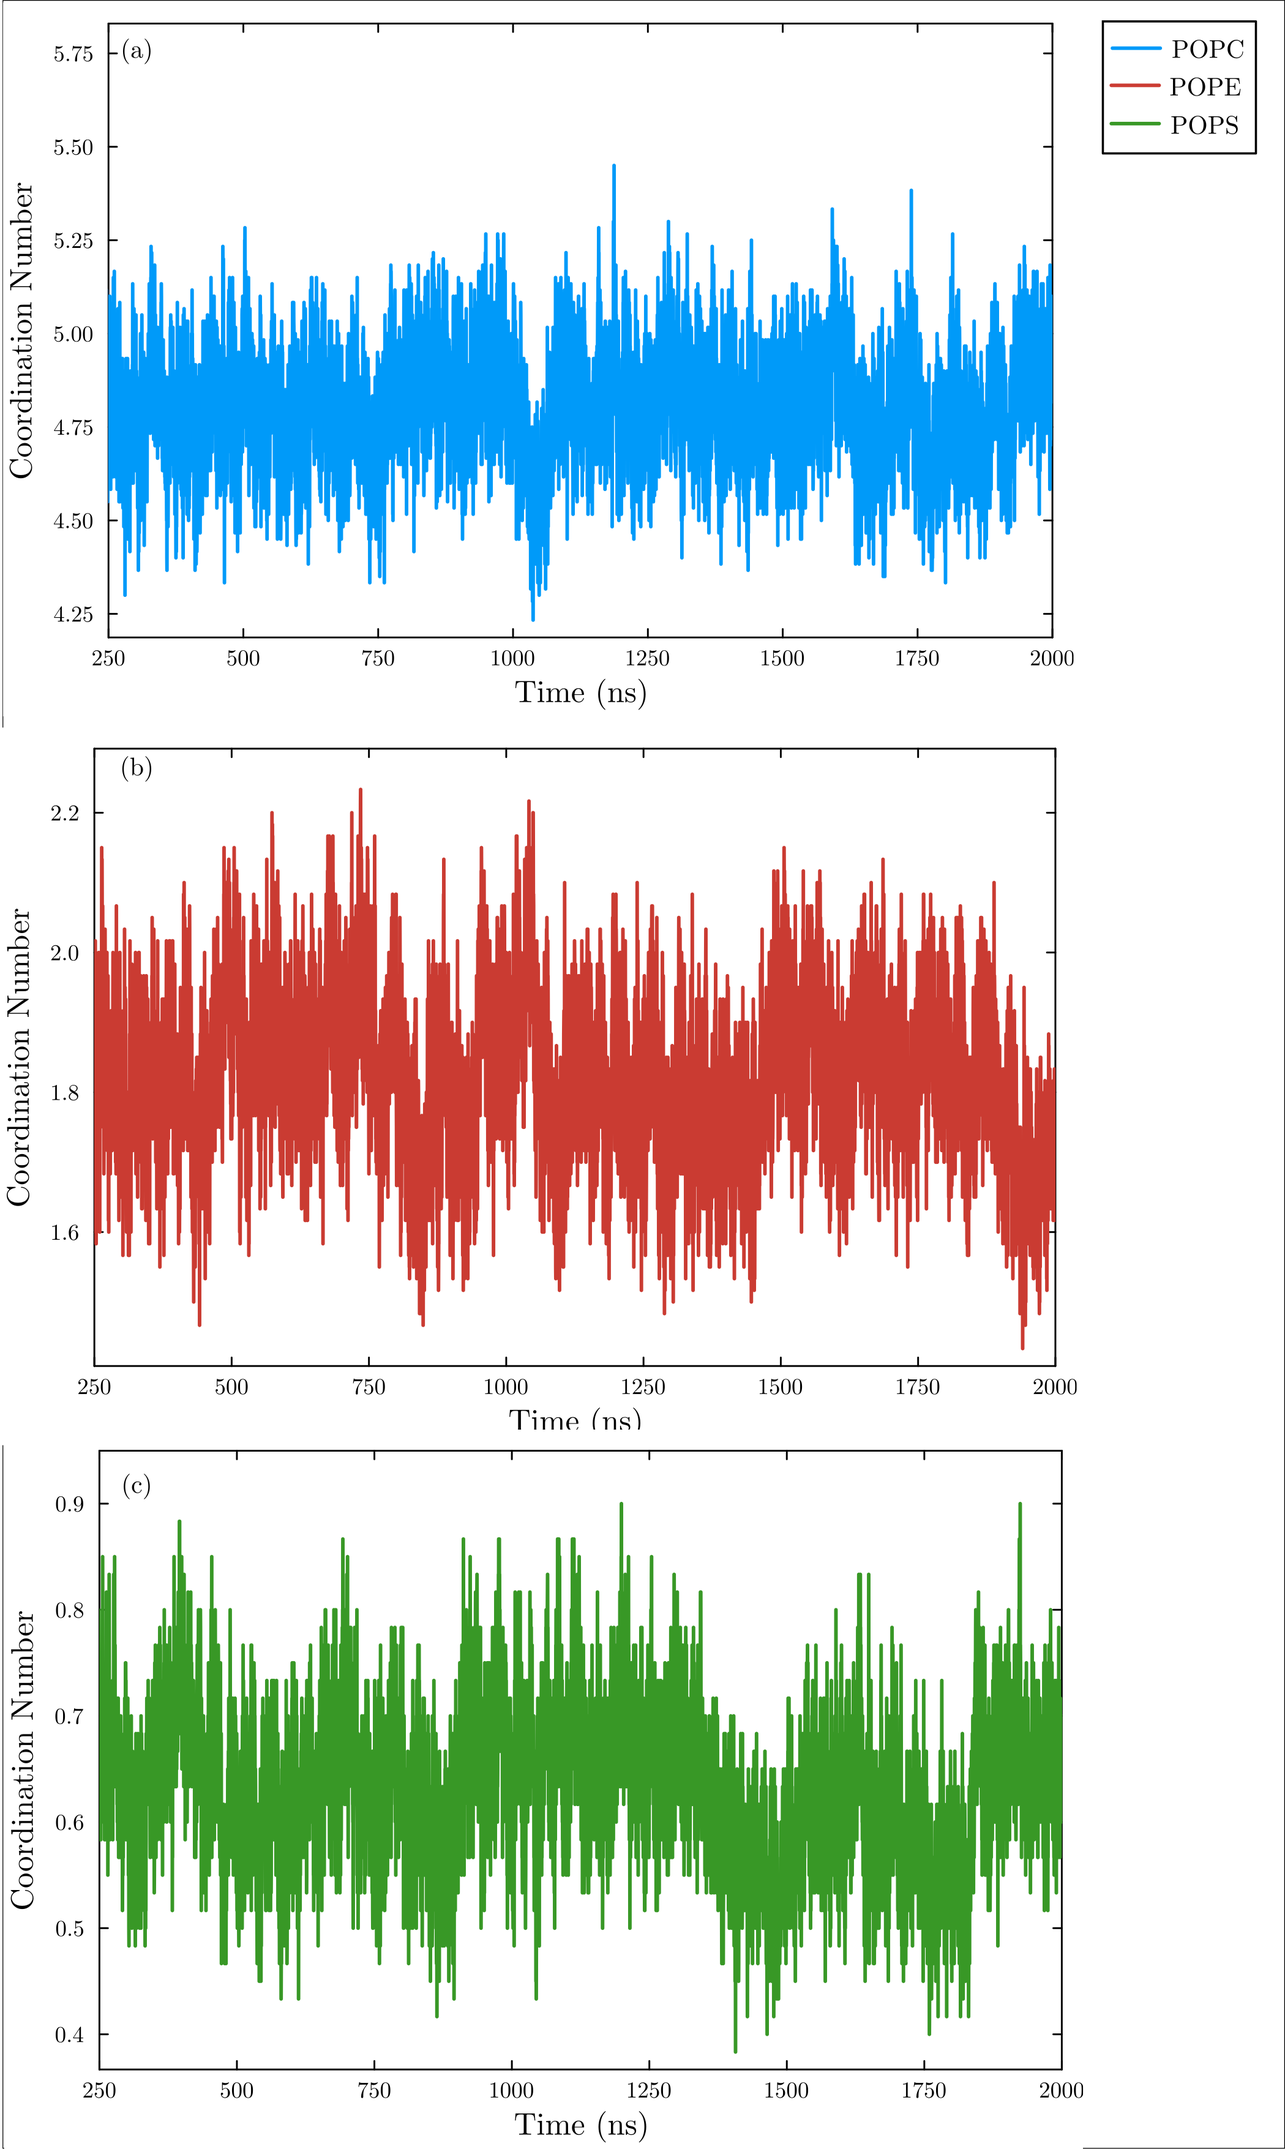
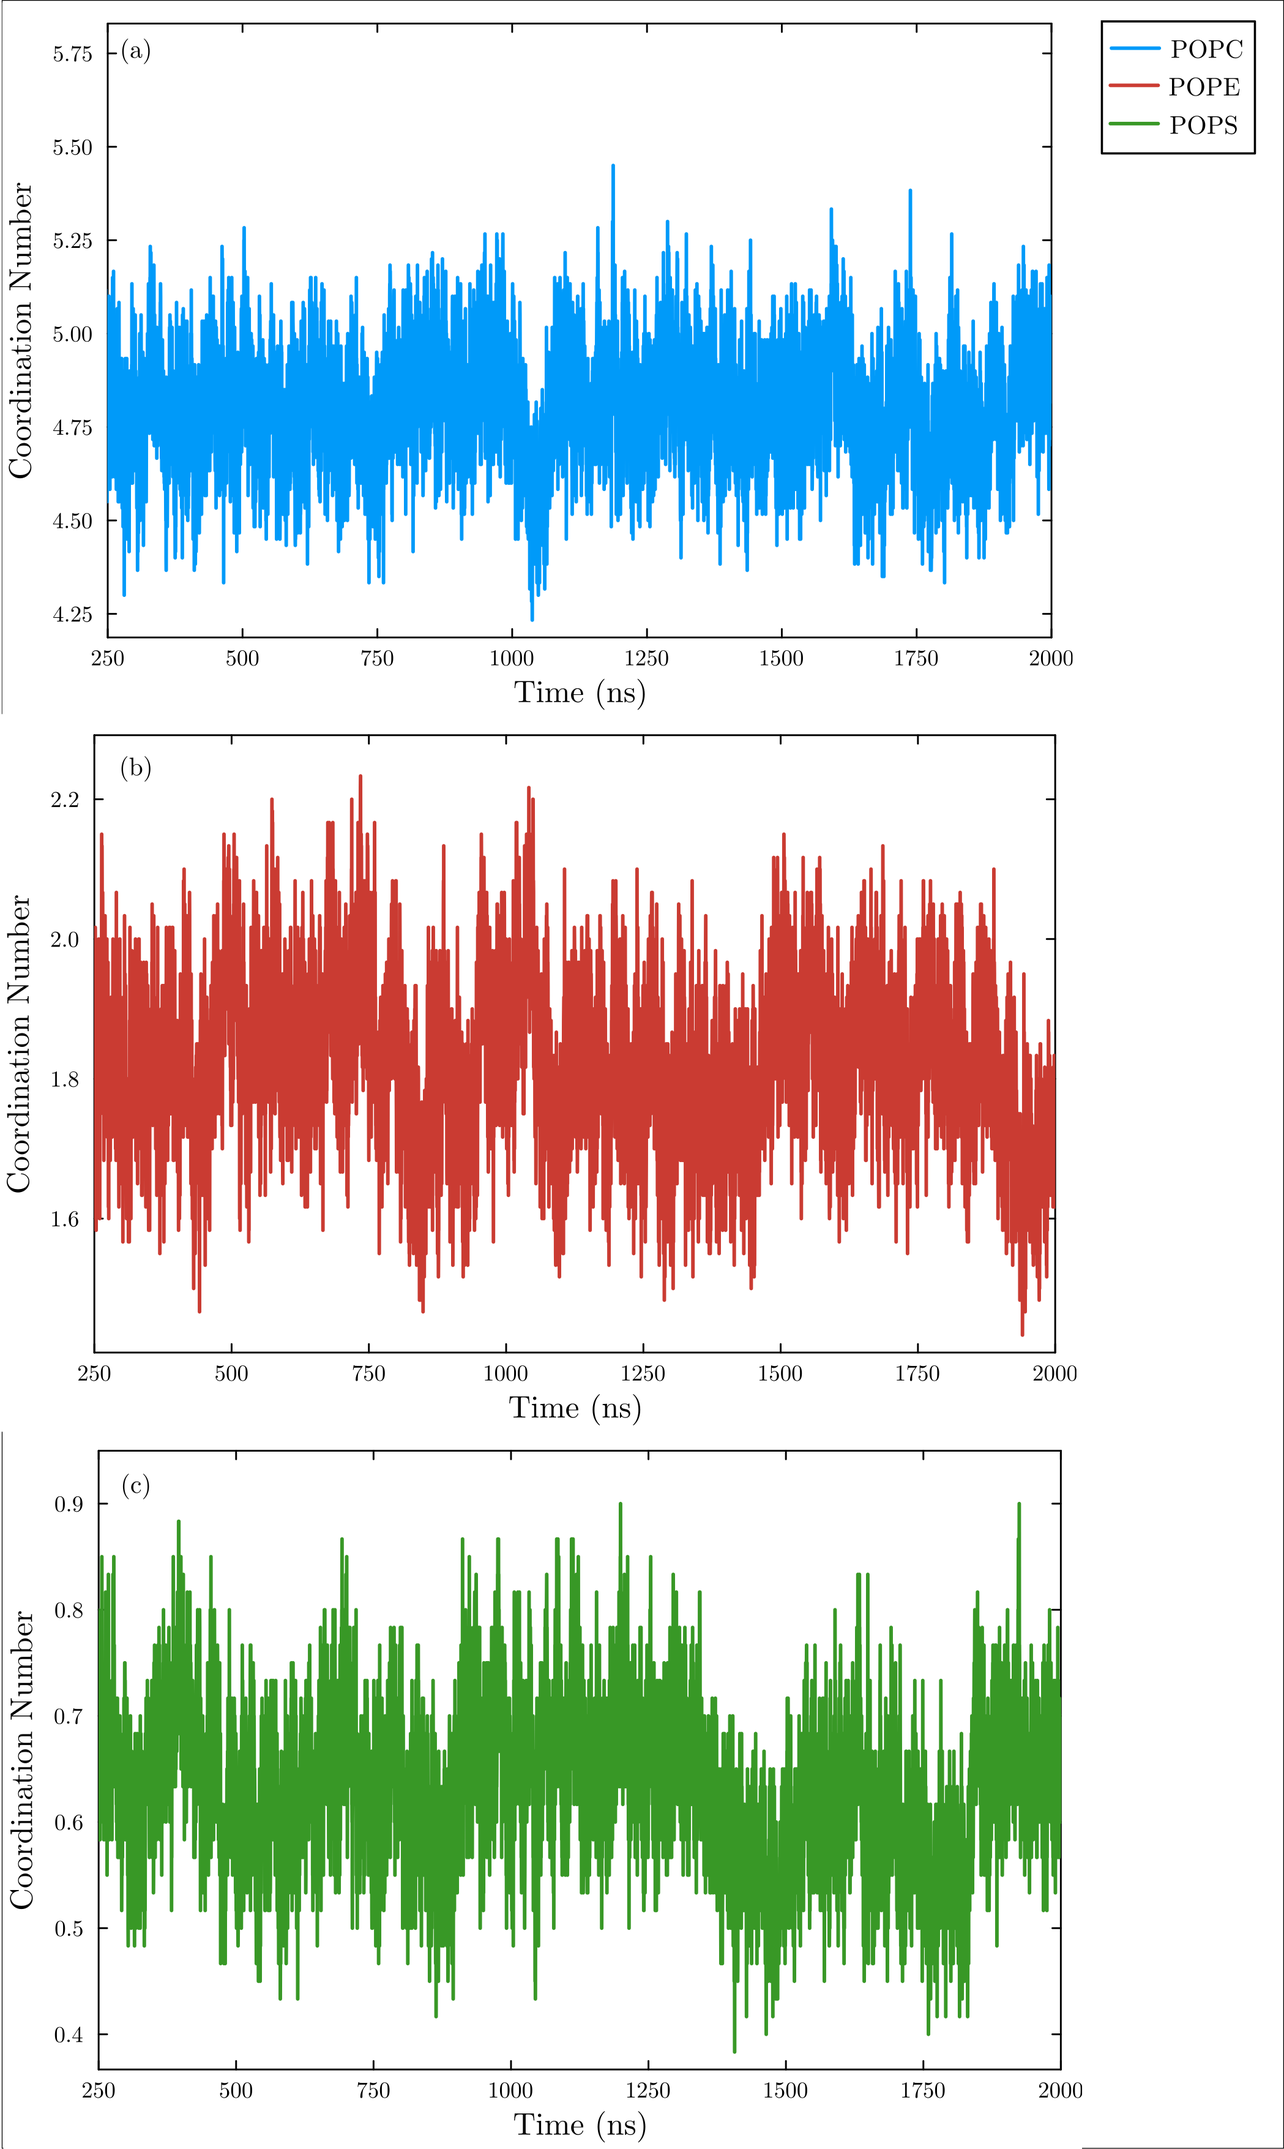
build based on 9e6a72e

diff --git a/dev/index.html b/dev/index.html
@@ -12,4 +12,4 @@ Pkg.add([
     &quot;Plots&quot;
 ])</code></pre><div class="admonition is-warning" id="Compatibility-d3b9f1010ac52a7d"><header class="admonition-header">Compatibility<a class="admonition-anchor" href="#Compatibility-d3b9f1010ac52a7d" title="Permalink"></a></header><div class="admonition-body"><p>Ensure that you are using <strong>Julia 1.11.2</strong> for compatibility with the packages and scipts in the repository.</p></div></div><h3 id="Funding"><a class="docs-heading-anchor" href="#Funding">Funding</a><a id="Funding-1"></a><a class="docs-heading-anchor-permalink" href="#Funding" title="Permalink"></a></h3><p>The authors acknowledge the financial support of Fapesp (2018/24293-0, 2023/14353-4). Research developed with the help of Coaraci Supercomputer (2019/17874-0).</p><h2 id="References"><a class="docs-heading-anchor" href="#References">References</a><a id="References-1"></a><a class="docs-heading-anchor-permalink" href="#References" title="Permalink"></a></h2><p><a href="https://doi.org/10.1016/j.molliq.2021.117945"><strong>[1]</strong> L. Martínez, <strong>ComplexMixtures.jl: Investigating the structure solutions of complex-shaped molecules from a  solvent-shell perspective</strong>. <em>J. Mol. Liq</em>. 347, 117945, 2022.</a></p><p><a href="https://pubs.acs.org/doi/abs/10.1021/acs.jctc.7b00599"><strong>[2]</strong> L. Martínez, S. Shimizu, <strong>Molecular interpretation of preferential interactions in protein solvation: a solvent-shell perspective by means of minimum distribution functions</strong>. <em>J. Chem. Theor. Comp</em>. 13, 6358-6372, 2017.</a></p><h2 id="Additional-Resources"><a class="docs-heading-anchor" href="#Additional-Resources">Additional Resources</a><a id="Additional-Resources-1"></a><a class="docs-heading-anchor-permalink" href="#Additional-Resources" title="Permalink"></a></h2><p>For additional resources and publications related to the scope of this paper, please visit the <a href="http://m3g.iqm.unicamp.br"><strong>M3G Website</strong></a>.</p><a href="http://m3g.iqm.unicamp.br">
     <img align="left" src="assets/m3g.svg" width="60" style="margin-right: 10px;">
-</a><p><em>This work was carried out by the <strong>M3G Group</strong> at Unicamp in collaboration with the <strong>Biomolecular Simulations Group</strong> at the Institut Pasteur de Montevideo.</em></p></article><nav class="docs-footer"><a class="docs-footer-nextpage" href="figures/">Supplementary Figures »</a><div class="flexbox-break"></div><p class="footer-message">Powered by <a href="https://github.com/JuliaDocs/Documenter.jl">Documenter.jl</a> and the <a href="https://julialang.org/">Julia Programming Language</a>.</p></nav></div><div class="modal" id="documenter-settings"><div class="modal-background"></div><div class="modal-card"><header class="modal-card-head"><p class="modal-card-title">Settings</p><button class="delete"></button></header><section class="modal-card-body"><p><label class="label">Theme</label><div class="select"><select id="documenter-themepicker"><option value="auto">Automatic (OS)</option><option value="documenter-light">documenter-light</option><option value="documenter-dark">documenter-dark</option><option value="catppuccin-latte">catppuccin-latte</option><option value="catppuccin-frappe">catppuccin-frappe</option><option value="catppuccin-macchiato">catppuccin-macchiato</option><option value="catppuccin-mocha">catppuccin-mocha</option></select></div></p><hr/><p>This document was generated with <a href="https://github.com/JuliaDocs/Documenter.jl">Documenter.jl</a> version 1.16.1 on <span class="colophon-date" title="Monday 5 January 2026 19:48">Monday 5 January 2026</span>. Using Julia version 1.12.3.</p></section><footer class="modal-card-foot"></footer></div></div></div></body></html>
+</a><p><em>This work was carried out by the <strong>M3G Group</strong> at Unicamp in collaboration with the <strong>Biomolecular Simulations Group</strong> at the Institut Pasteur de Montevideo.</em></p></article><nav class="docs-footer"><a class="docs-footer-nextpage" href="figures/">Supplementary Figures »</a><div class="flexbox-break"></div><p class="footer-message">Powered by <a href="https://github.com/JuliaDocs/Documenter.jl">Documenter.jl</a> and the <a href="https://julialang.org/">Julia Programming Language</a>.</p></nav></div><div class="modal" id="documenter-settings"><div class="modal-background"></div><div class="modal-card"><header class="modal-card-head"><p class="modal-card-title">Settings</p><button class="delete"></button></header><section class="modal-card-body"><p><label class="label">Theme</label><div class="select"><select id="documenter-themepicker"><option value="auto">Automatic (OS)</option><option value="documenter-light">documenter-light</option><option value="documenter-dark">documenter-dark</option><option value="catppuccin-latte">catppuccin-latte</option><option value="catppuccin-frappe">catppuccin-frappe</option><option value="catppuccin-macchiato">catppuccin-macchiato</option><option value="catppuccin-mocha">catppuccin-mocha</option></select></div></p><hr/><p>This document was generated with <a href="https://github.com/JuliaDocs/Documenter.jl">Documenter.jl</a> version 1.16.1 on <span class="colophon-date" title="Monday 5 January 2026 20:01">Monday 5 January 2026</span>. Using Julia version 1.12.3.</p></section><footer class="modal-card-foot"></footer></div></div></div></body></html>

diff --git a/dev/figures/index.html b/dev/figures/index.html
@@ -107,4 +107,4 @@
 </figure><figure style="text-align: center;">
   <img src="../figures/figureS36.png" style="width:100%">
   <figcaption>Figure S36. Helical wheels of chains O and P depicting POPS contributions within 5 Å, with arrows indicating hydrophobic moment vectors relevant for membrane embedding.</figcaption>
-</figure><h2 id="Aditional-References"><a class="docs-heading-anchor" href="#Aditional-References">Aditional References</a><a id="Aditional-References-1"></a><a class="docs-heading-anchor-permalink" href="#Aditional-References" title="Permalink"></a></h2><section class="footnotes is-size-7"><ul><li class="footnote" id="footnote-1"><a class="tag is-link" href="#citeref-1">1</a>Khemaissa, S., Sagan, S. &amp; Walrant, A. Tryptophan, an Amino-Acid Endowed with Unique Properties and Its Many Roles in Membrane Proteins. Crystals 11, 1032 (2021).</li><li class="footnote" id="footnote-2"><a class="tag is-link" href="#citeref-2">2</a>Amino-Acid Solvation Structure in Transmembrane Helices from Molecular Dynamics Simulations. Biophysical Journal 91, 4450–4463 (2006).</li><li class="footnote" id="footnote-3"><a class="tag is-link" href="#citeref-3">3</a>Zhang, W. et al. Visualization of membrane protein domains by cryo-electron microscopy of dengue virus. Nature Structural &amp; Molecular Biology 10, 907–912 (2003).</li></ul></section></article><nav class="docs-footer"><a class="docs-footer-prevpage" href="../">« Home</a><a class="docs-footer-nextpage" href="../scripts/">Scripts »</a><div class="flexbox-break"></div><p class="footer-message">Powered by <a href="https://github.com/JuliaDocs/Documenter.jl">Documenter.jl</a> and the <a href="https://julialang.org/">Julia Programming Language</a>.</p></nav></div><div class="modal" id="documenter-settings"><div class="modal-background"></div><div class="modal-card"><header class="modal-card-head"><p class="modal-card-title">Settings</p><button class="delete"></button></header><section class="modal-card-body"><p><label class="label">Theme</label><div class="select"><select id="documenter-themepicker"><option value="auto">Automatic (OS)</option><option value="documenter-light">documenter-light</option><option value="documenter-dark">documenter-dark</option><option value="catppuccin-latte">catppuccin-latte</option><option value="catppuccin-frappe">catppuccin-frappe</option><option value="catppuccin-macchiato">catppuccin-macchiato</option><option value="catppuccin-mocha">catppuccin-mocha</option></select></div></p><hr/><p>This document was generated with <a href="https://github.com/JuliaDocs/Documenter.jl">Documenter.jl</a> version 1.16.1 on <span class="colophon-date" title="Monday 5 January 2026 19:48">Monday 5 January 2026</span>. Using Julia version 1.12.3.</p></section><footer class="modal-card-foot"></footer></div></div></div></body></html>
+</figure><h2 id="Aditional-References"><a class="docs-heading-anchor" href="#Aditional-References">Aditional References</a><a id="Aditional-References-1"></a><a class="docs-heading-anchor-permalink" href="#Aditional-References" title="Permalink"></a></h2><section class="footnotes is-size-7"><ul><li class="footnote" id="footnote-1"><a class="tag is-link" href="#citeref-1">1</a>Khemaissa, S., Sagan, S. &amp; Walrant, A. Tryptophan, an Amino-Acid Endowed with Unique Properties and Its Many Roles in Membrane Proteins. Crystals 11, 1032 (2021).</li><li class="footnote" id="footnote-2"><a class="tag is-link" href="#citeref-2">2</a>Amino-Acid Solvation Structure in Transmembrane Helices from Molecular Dynamics Simulations. Biophysical Journal 91, 4450–4463 (2006).</li><li class="footnote" id="footnote-3"><a class="tag is-link" href="#citeref-3">3</a>Zhang, W. et al. Visualization of membrane protein domains by cryo-electron microscopy of dengue virus. Nature Structural &amp; Molecular Biology 10, 907–912 (2003).</li></ul></section></article><nav class="docs-footer"><a class="docs-footer-prevpage" href="../">« Home</a><a class="docs-footer-nextpage" href="../scripts/">Scripts »</a><div class="flexbox-break"></div><p class="footer-message">Powered by <a href="https://github.com/JuliaDocs/Documenter.jl">Documenter.jl</a> and the <a href="https://julialang.org/">Julia Programming Language</a>.</p></nav></div><div class="modal" id="documenter-settings"><div class="modal-background"></div><div class="modal-card"><header class="modal-card-head"><p class="modal-card-title">Settings</p><button class="delete"></button></header><section class="modal-card-body"><p><label class="label">Theme</label><div class="select"><select id="documenter-themepicker"><option value="auto">Automatic (OS)</option><option value="documenter-light">documenter-light</option><option value="documenter-dark">documenter-dark</option><option value="catppuccin-latte">catppuccin-latte</option><option value="catppuccin-frappe">catppuccin-frappe</option><option value="catppuccin-macchiato">catppuccin-macchiato</option><option value="catppuccin-mocha">catppuccin-mocha</option></select></div></p><hr/><p>This document was generated with <a href="https://github.com/JuliaDocs/Documenter.jl">Documenter.jl</a> version 1.16.1 on <span class="colophon-date" title="Monday 5 January 2026 20:01">Monday 5 January 2026</span>. Using Julia version 1.12.3.</p></section><footer class="modal-card-foot"></footer></div></div></div></body></html>

diff --git a/dev/additional/index.html b/dev/additional/index.html
@@ -23,4 +23,4 @@
 </figure><figure style="text-align: center;">
   <img src="../figures/figureS44.png" style="width:100%">
   <figcaption>Figure S44. Fluctuations of the coordination number of outer POPS along the simulation and block analysis for time‑correlated data, showing the convergence of the worst block value to the global mean, the dependence of the standard error on the block size, the autocorrelation function with integrated correlation time, and the effective number of independent samples, calculated with the block‑averages method of MolSimToolkit.jl.</figcaption>
-</figure></article><nav class="docs-footer"><a class="docs-footer-prevpage" href="../scripts/">« Scripts</a><div class="flexbox-break"></div><p class="footer-message">Powered by <a href="https://github.com/JuliaDocs/Documenter.jl">Documenter.jl</a> and the <a href="https://julialang.org/">Julia Programming Language</a>.</p></nav></div><div class="modal" id="documenter-settings"><div class="modal-background"></div><div class="modal-card"><header class="modal-card-head"><p class="modal-card-title">Settings</p><button class="delete"></button></header><section class="modal-card-body"><p><label class="label">Theme</label><div class="select"><select id="documenter-themepicker"><option value="auto">Automatic (OS)</option><option value="documenter-light">documenter-light</option><option value="documenter-dark">documenter-dark</option><option value="catppuccin-latte">catppuccin-latte</option><option value="catppuccin-frappe">catppuccin-frappe</option><option value="catppuccin-macchiato">catppuccin-macchiato</option><option value="catppuccin-mocha">catppuccin-mocha</option></select></div></p><hr/><p>This document was generated with <a href="https://github.com/JuliaDocs/Documenter.jl">Documenter.jl</a> version 1.16.1 on <span class="colophon-date" title="Monday 5 January 2026 19:48">Monday 5 January 2026</span>. Using Julia version 1.12.3.</p></section><footer class="modal-card-foot"></footer></div></div></div></body></html>
+</figure></article><nav class="docs-footer"><a class="docs-footer-prevpage" href="../scripts/">« Scripts</a><div class="flexbox-break"></div><p class="footer-message">Powered by <a href="https://github.com/JuliaDocs/Documenter.jl">Documenter.jl</a> and the <a href="https://julialang.org/">Julia Programming Language</a>.</p></nav></div><div class="modal" id="documenter-settings"><div class="modal-background"></div><div class="modal-card"><header class="modal-card-head"><p class="modal-card-title">Settings</p><button class="delete"></button></header><section class="modal-card-body"><p><label class="label">Theme</label><div class="select"><select id="documenter-themepicker"><option value="auto">Automatic (OS)</option><option value="documenter-light">documenter-light</option><option value="documenter-dark">documenter-dark</option><option value="catppuccin-latte">catppuccin-latte</option><option value="catppuccin-frappe">catppuccin-frappe</option><option value="catppuccin-macchiato">catppuccin-macchiato</option><option value="catppuccin-mocha">catppuccin-mocha</option></select></div></p><hr/><p>This document was generated with <a href="https://github.com/JuliaDocs/Documenter.jl">Documenter.jl</a> version 1.16.1 on <span class="colophon-date" title="Monday 5 January 2026 20:01">Monday 5 January 2026</span>. Using Julia version 1.12.3.</p></section><footer class="modal-card-foot"></footer></div></div></div></body></html>

diff --git a/dev/scripts/index.html b/dev/scripts/index.html
@@ -99,4 +99,4 @@ end
 rc = rc/60
 
 # Step 6: Save the contributions per residue as a JSON file
-save(&quot;./rc_k_lipidbilayer&quot;, rc)</code></pre></article><nav class="docs-footer"><a class="docs-footer-prevpage" href="../figures/">« Supplementary Figures</a><a class="docs-footer-nextpage" href="../additional/">Additional Information »</a><div class="flexbox-break"></div><p class="footer-message">Powered by <a href="https://github.com/JuliaDocs/Documenter.jl">Documenter.jl</a> and the <a href="https://julialang.org/">Julia Programming Language</a>.</p></nav></div><div class="modal" id="documenter-settings"><div class="modal-background"></div><div class="modal-card"><header class="modal-card-head"><p class="modal-card-title">Settings</p><button class="delete"></button></header><section class="modal-card-body"><p><label class="label">Theme</label><div class="select"><select id="documenter-themepicker"><option value="auto">Automatic (OS)</option><option value="documenter-light">documenter-light</option><option value="documenter-dark">documenter-dark</option><option value="catppuccin-latte">catppuccin-latte</option><option value="catppuccin-frappe">catppuccin-frappe</option><option value="catppuccin-macchiato">catppuccin-macchiato</option><option value="catppuccin-mocha">catppuccin-mocha</option></select></div></p><hr/><p>This document was generated with <a href="https://github.com/JuliaDocs/Documenter.jl">Documenter.jl</a> version 1.16.1 on <span class="colophon-date" title="Monday 5 January 2026 19:48">Monday 5 January 2026</span>. Using Julia version 1.12.3.</p></section><footer class="modal-card-foot"></footer></div></div></div></body></html>
+save(&quot;./rc_k_lipidbilayer&quot;, rc)</code></pre></article><nav class="docs-footer"><a class="docs-footer-prevpage" href="../figures/">« Supplementary Figures</a><a class="docs-footer-nextpage" href="../additional/">Additional Information »</a><div class="flexbox-break"></div><p class="footer-message">Powered by <a href="https://github.com/JuliaDocs/Documenter.jl">Documenter.jl</a> and the <a href="https://julialang.org/">Julia Programming Language</a>.</p></nav></div><div class="modal" id="documenter-settings"><div class="modal-background"></div><div class="modal-card"><header class="modal-card-head"><p class="modal-card-title">Settings</p><button class="delete"></button></header><section class="modal-card-body"><p><label class="label">Theme</label><div class="select"><select id="documenter-themepicker"><option value="auto">Automatic (OS)</option><option value="documenter-light">documenter-light</option><option value="documenter-dark">documenter-dark</option><option value="catppuccin-latte">catppuccin-latte</option><option value="catppuccin-frappe">catppuccin-frappe</option><option value="catppuccin-macchiato">catppuccin-macchiato</option><option value="catppuccin-mocha">catppuccin-mocha</option></select></div></p><hr/><p>This document was generated with <a href="https://github.com/JuliaDocs/Documenter.jl">Documenter.jl</a> version 1.16.1 on <span class="colophon-date" title="Monday 5 January 2026 20:01">Monday 5 January 2026</span>. Using Julia version 1.12.3.</p></section><footer class="modal-card-foot"></footer></div></div></div></body></html>
